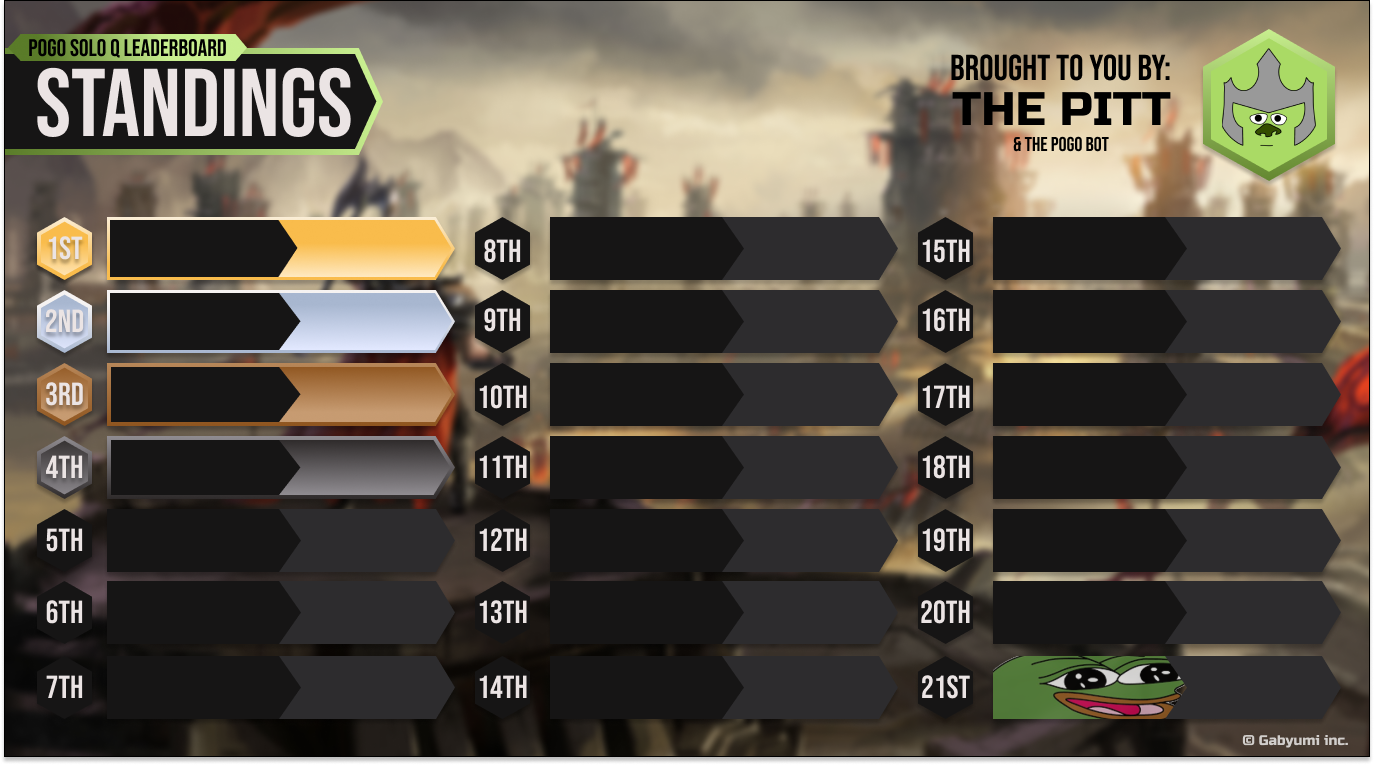
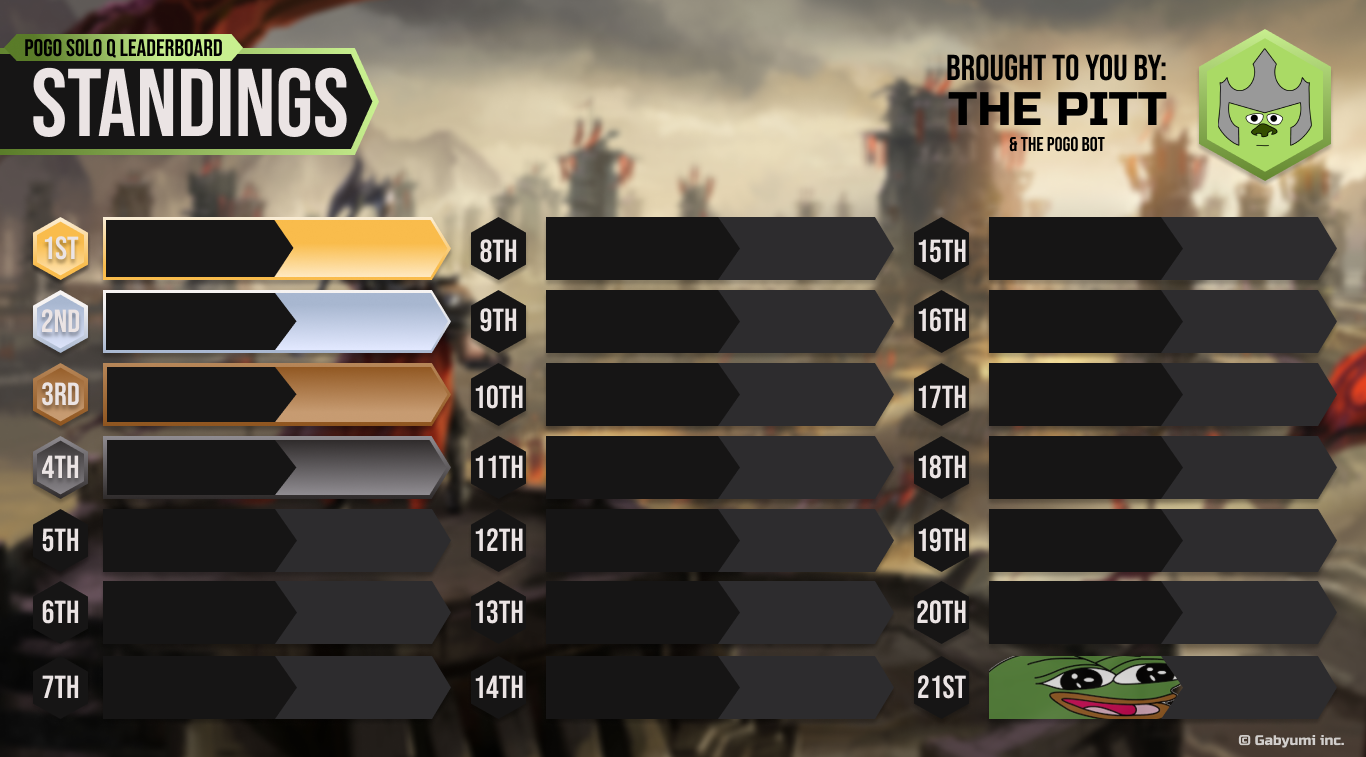
Changed image background for LoL to Noxus fix

diff --git a/main.py b/main.py
@@ -724,7 +724,7 @@ async def update_lol_leaderboard(previous_rankings, message, updated_lol_ranking
         BACKGROUND_IMAGE_PATH = "img/leaderboard_soloq.png"
 
         # WIDTH, HEIGHT OF THE BACKGROUND IMAGE FOR LOL LEADERBOARD
-        BACKGROUND_SIZE = (1374, 765)
+        BACKGROUND_SIZE = (1366, 757)
 
         # Load the background image and resize it to the desired size
         background_image = Image.open(BACKGROUND_IMAGE_PATH).convert("RGBA")
